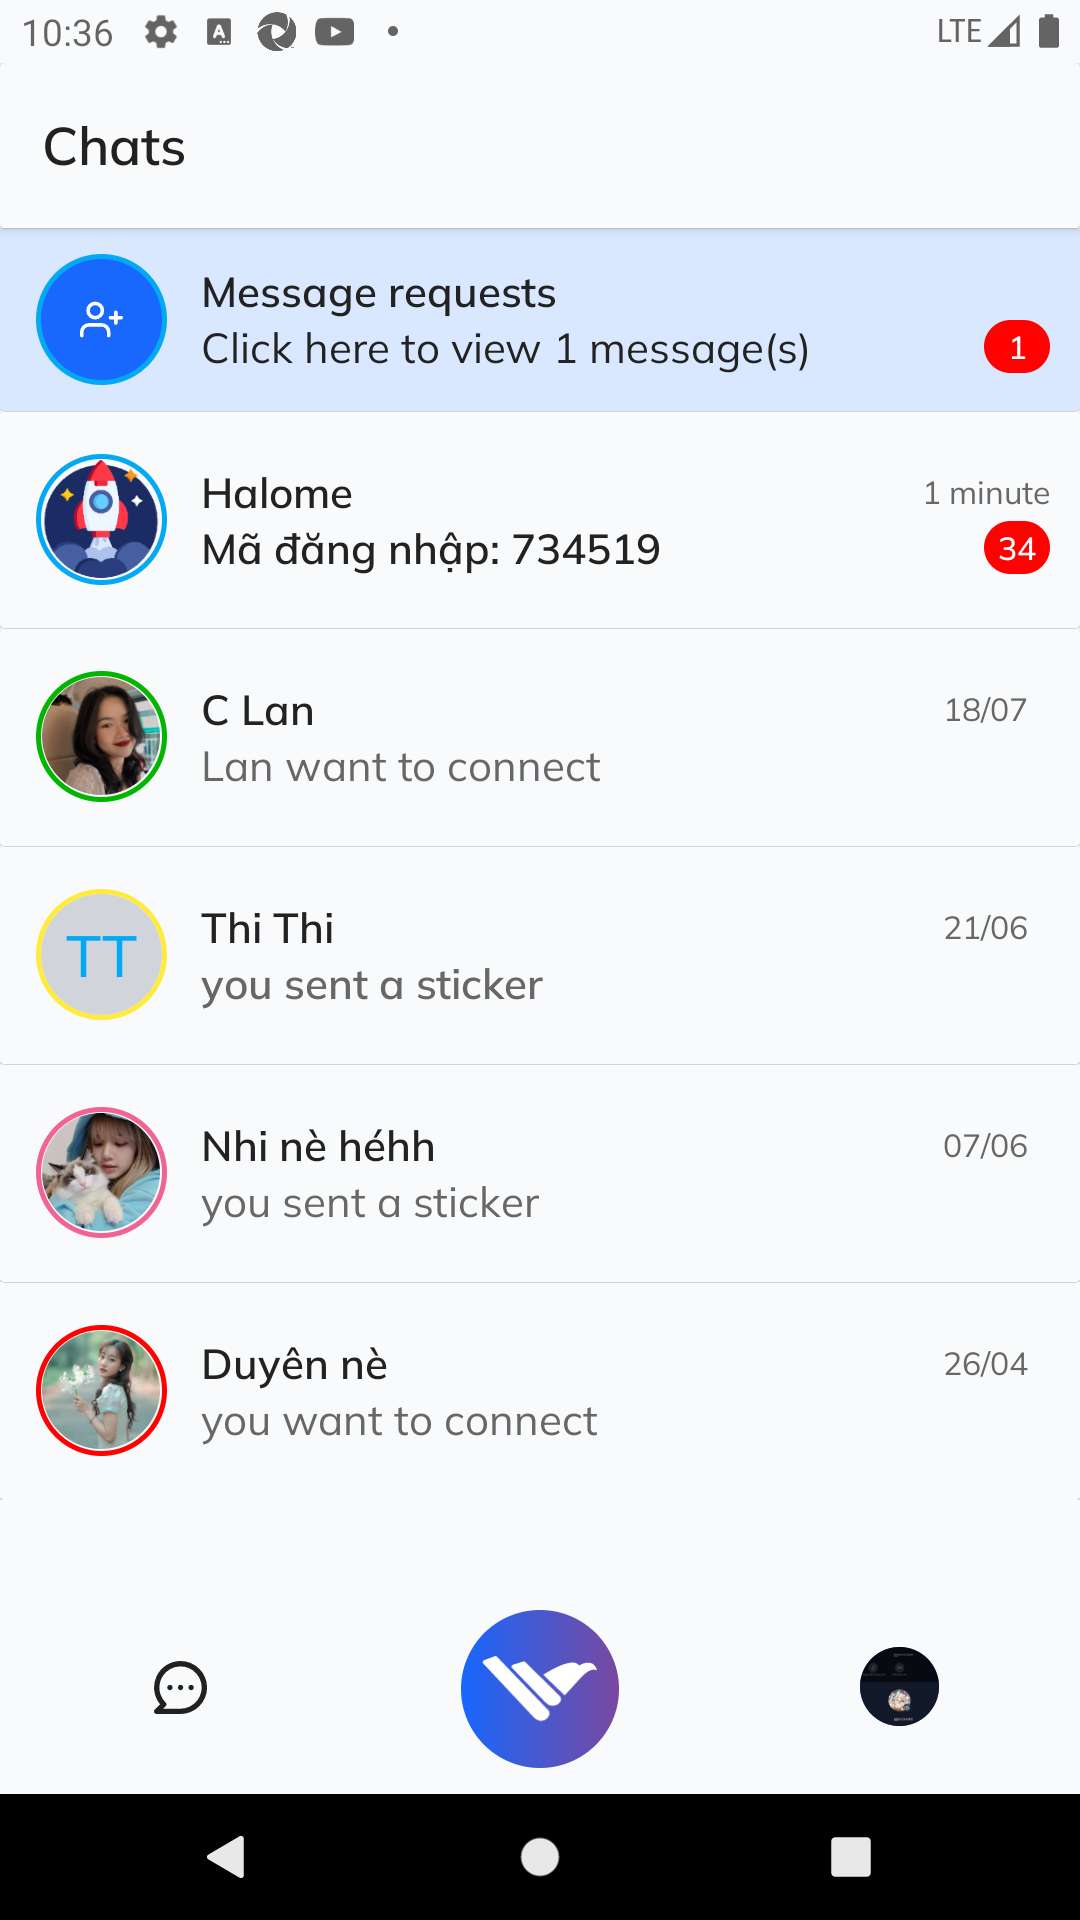
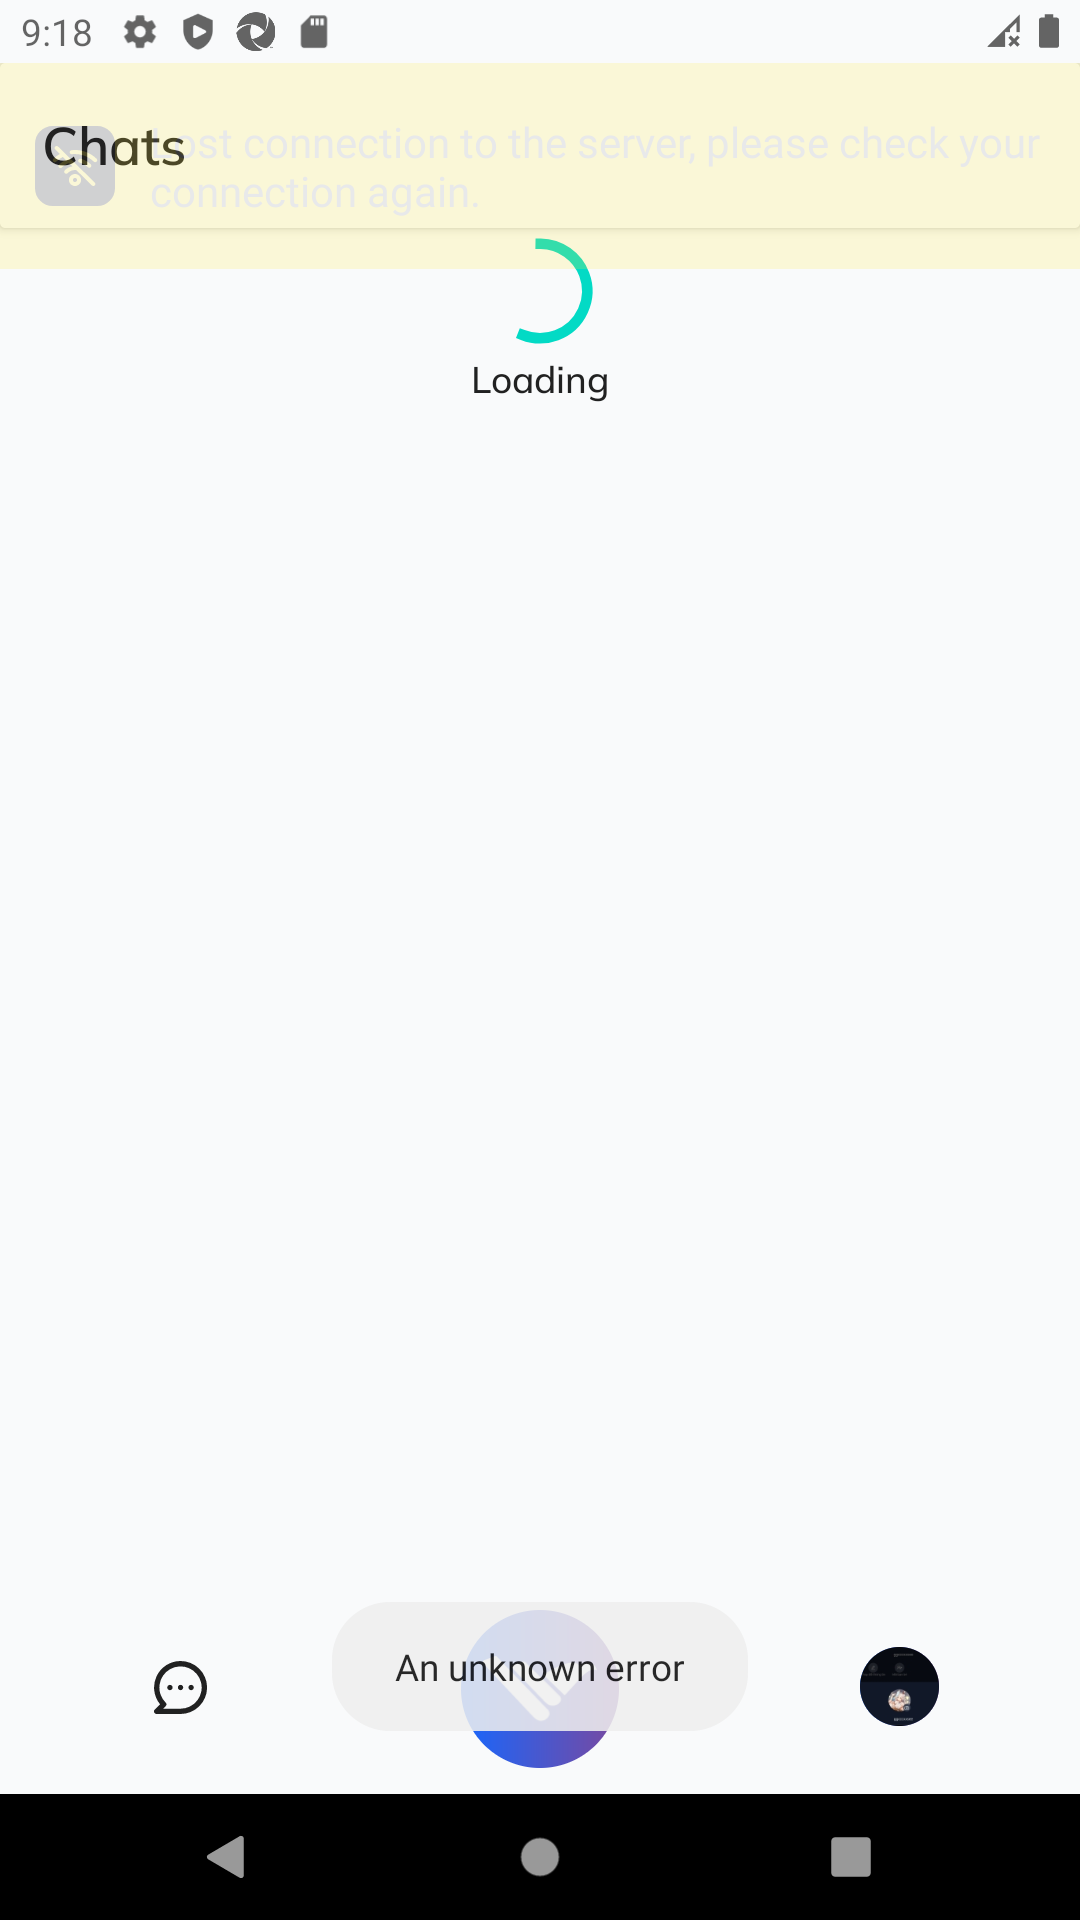
update code day05 | done

diff --git a/src/test/java/Day05/HandleMultipleApps.java b/src/test/java/Day05/HandleMultipleApps.java
@@ -34,12 +34,12 @@ public class HandleMultipleApps {
             MobileElement sendCodeSMSBtn = appiumDriver.findElement(MobileBy.id("com.halome.android.lite:id/txt_sms_otp"));
 
             sendCodeSMSBtn.click();
-            Thread.sleep(3000);
+            //Thread.sleep(1000);
             List<MobileElement> enterCodeInput = appiumDriver.findElements(MobileBy.xpath("//android.widget.EditText"));
             for (MobileElement code : enterCodeInput) {
                 code.sendKeys("0");
             }
-            Thread.sleep(3000);
+            Thread.sleep(1000);
             //5 Put the Halome Lite app into background || similar with pressing home btn
             appiumDriver.runAppInBackground(Duration.ofSeconds(-1));
 
@@ -51,14 +51,14 @@ public class HandleMultipleApps {
             //MobileElement networkinternet = appiumDriver.findElement(MobileBy.xpath("//android.widget.RelativeLayout"));
 
             ((AndroidDriver) appiumDriver).toggleWifi();
+            ((AndroidDriver) appiumDriver).toggleData();
 
             //8 Comeback to Halome Lite app
             appiumDriver.activateApp(AppPackage.halomeLite);
             //9 Take screenshot (Lost internet connection - Loading)
-            //Thread.sleep(500);
-            MobileElement loginAnonymouslyForm = appiumDriver.findElement(MobileBy.xpath("//*[@text=\"Loading\"]"));
-            File base64ScreenshotData = loginAnonymouslyForm.getScreenshotAs(OutputType.FILE);
-            String fileLocation = System.getProperty("user.dir").concat("/screenshots/").concat("loading-area.png");
+            Thread.sleep(5000);
+            File base64ScreenshotData = appiumDriver.getScreenshotAs(OutputType.FILE);
+            String fileLocation = System.getProperty("user.dir").concat("/screenshots/").concat("loading.png");
             FileUtils.copyFile(base64ScreenshotData, new File(fileLocation));
 
         }catch (Exception e){

diff --git a/src/test/java/models/pages/WelcomeScreen.java b/src/test/java/models/pages/WelcomeScreen.java
@@ -1,0 +1,37 @@
+package models.pages;
+
+import io.appium.java_client.AppiumDriver;
+import io.appium.java_client.MobileBy;
+import io.appium.java_client.MobileElement;
+import org.openqa.selenium.By;
+
+public class WelcomeScreen {
+    private final AppiumDriver<MobileElement> appiumDriver;
+    private final static By loginAnonymouslyBtnSel = MobileBy.id("com.halome.android.lite:id/selectLogin_anonymously_button");
+    private final static By loginHHLLBtnSel = MobileBy.id("com.halome.android.lite:id/selectLogin_halome_button");
+    private final static By languageBtnSel = MobileBy.id("com.halome.android.lite:id/selectLogin_default_language_name");
+
+    public WelcomeScreen(AppiumDriver<MobileElement> appiumDriver) {
+        this.appiumDriver= appiumDriver;
+    }
+    //
+    public MobileElement loginAnonymouslyBtnElem(){
+        return appiumDriver.findElement(loginAnonymouslyBtnSel);
+    }
+    public MobileElement loginHHLLBtnElem(){
+        return appiumDriver.findElement(loginHHLLBtnSel);
+    }
+    public MobileElement languageBtnElem(){
+        return appiumDriver.findElement(languageBtnSel);
+    }
+    //
+    public void clickOnLoginAnonymouslyBtn(){
+        loginAnonymouslyBtnElem().click();
+    }
+    public void clickOnLoginHHLLBtn(){
+        loginHHLLBtnElem().click();
+    }
+    public void clickOnLanguageBtnBtn(){
+        languageBtnElem().click();
+    }
+}

diff --git a/src/test/java/models/pages/LoginEnterPhoneNumberScreen.java b/src/test/java/models/pages/LoginEnterPhoneNumberScreen.java
@@ -1,0 +1,32 @@
+package models.pages;
+
+import com.sun.org.apache.bcel.internal.generic.MONITORENTER;
+import io.appium.java_client.AppiumDriver;
+import io.appium.java_client.MobileBy;
+import io.appium.java_client.MobileElement;
+import org.openqa.selenium.By;
+
+public class LoginEnterPhoneNumberScreen {
+    private final AppiumDriver<MobileElement> appiumDriver;
+    private final static By phoneNumberSel = MobileBy.id("com.halome.android.lite:id/phoneNumber_add_phone_num_edittext");
+    private final static By getStartedBtnSel = MobileBy.id("com.halome.android.lite:id/phoneNumber_get_start_button");
+
+    public LoginEnterPhoneNumberScreen(AppiumDriver<MobileElement> appiumDriver) {
+        this.appiumDriver = appiumDriver;
+    }
+    public MobileElement phoneNumberElem(){
+        return appiumDriver.findElement(phoneNumberSel);
+    }
+    public MobileElement getStartedBtnElem(){
+        return appiumDriver.findElement(getStartedBtnSel);
+    }
+    //
+    public void inputPhoneNumber(String phoneNumber){
+        if (!phoneNumber.isEmpty()){
+            phoneNumberElem().sendKeys(phoneNumber);
+        }
+    }
+    public void clickGetStartedBtn(){
+        getStartedBtnElem().click();
+    }
+}

diff --git a/src/test/java/models/pages/LoginOtpInAppScreen.java b/src/test/java/models/pages/LoginOtpInAppScreen.java
@@ -1,0 +1,9 @@
+package models.pages;
+
+import io.appium.java_client.AppiumDriver;
+import io.appium.java_client.MobileElement;
+
+public class LoginOtpInAppScreen {
+    private final AppiumDriver<MobileElement> appiumDriver;
+    private final static
+}

diff --git a/src/test/java/models/pages/LoginOtpInSmsScreen.java b/src/test/java/models/pages/LoginOtpInSmsScreen.java
@@ -1,0 +1,4 @@
+package models.pages;
+
+public class LoginOtpInSmsScreen {
+}

diff --git a/src/test/java/models/pages/HomeScreen.java b/src/test/java/models/pages/HomeScreen.java
@@ -1,0 +1,4 @@
+package models.pages;
+
+public class HomeScreen {
+}
